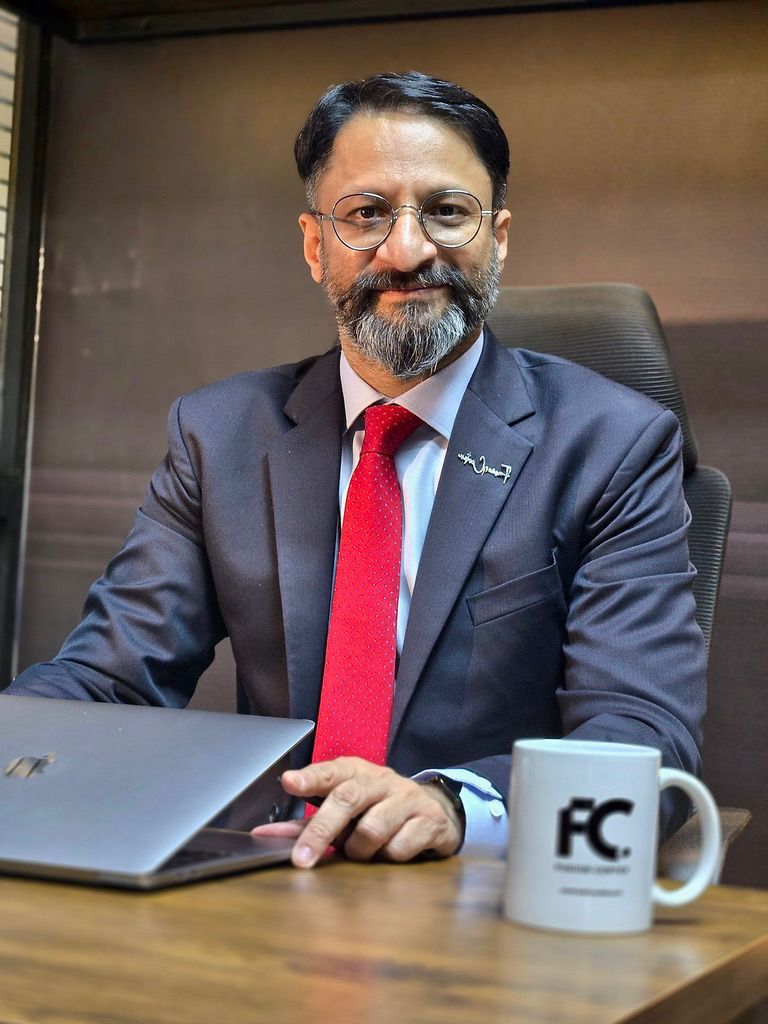
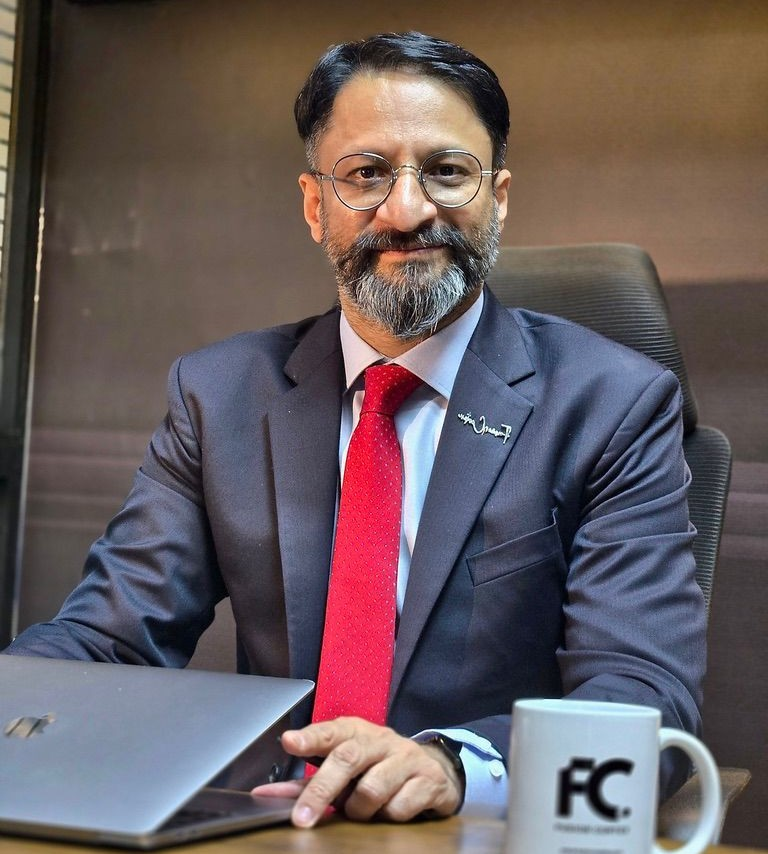
update

diff --git a/src/components/AboutRush.js b/src/components/AboutRush.js
@@ -25,7 +25,7 @@ const AboutRush = () => {
               </Link>
             </div>
             <div className="relative py-3 md:py-6 flex justify-center md:justify-end">
-              <img src="/pic1.jpg" alt="Rush offices" className="w-[92%] sm:w-[85%] md:w-[70%] h-auto shadow-xl" />
+              <img src="/company.png" alt="Rush offices" className="w-[92%] sm:w-[85%] md:w-[70%] h-auto shadow-xl" />
             </div>
           </div>
         </div>
@@ -36,7 +36,7 @@ const AboutRush = () => {
         <div className="relative max-w-7xl mx-auto px-6">
           <div className="grid grid-cols-1 md:grid-cols-2 gap-5 items-center">
             <div className="relative py-2 md:py-4 flex justify-center md:justify-start">
-              <img src="/pic2.png" alt="Rush people" className="w-[92%] sm:w-[85%] md:w-[70%] h-auto shadow-lg" />
+              <img src="/people.png" alt="Rush people" className="w-[92%] sm:w-[85%] md:w-[70%] h-auto shadow-lg" />
             </div>
             <div>
               <h2 className="text-3xl md:text-4xl font-display text-[#0a132e] mb-2">Our people</h2>
@@ -83,7 +83,7 @@ const AboutRush = () => {
 
             {/* Image on the right */}
             <div className="relative py-2 md:py-4 flex justify-center md:justify-end">
-              <img src="/pic3.jpg" alt="Rush brands" className="w-[92%] sm:w-[85%] md:w-[70%] h-auto shadow-lg" />
+              <img src="/brands.png" alt="Rush brands" className="w-[92%] sm:w-[85%] md:w-[70%] h-auto shadow-lg" />
             </div>
           </div>
         </div>

diff --git a/src/components/ManagementConsulting.js b/src/components/ManagementConsulting.js
@@ -25,7 +25,7 @@ const ManagementConsulting = () => {
             <div className="w-full max-w-sm">
               <div className="rounded-2xl overflow-hidden">
                 <img
-                  src="/management.jpg"
+                  src="/management.png"
                   alt="Management Consulting"
                   className="w-full h-auto object-cover"
                 />
